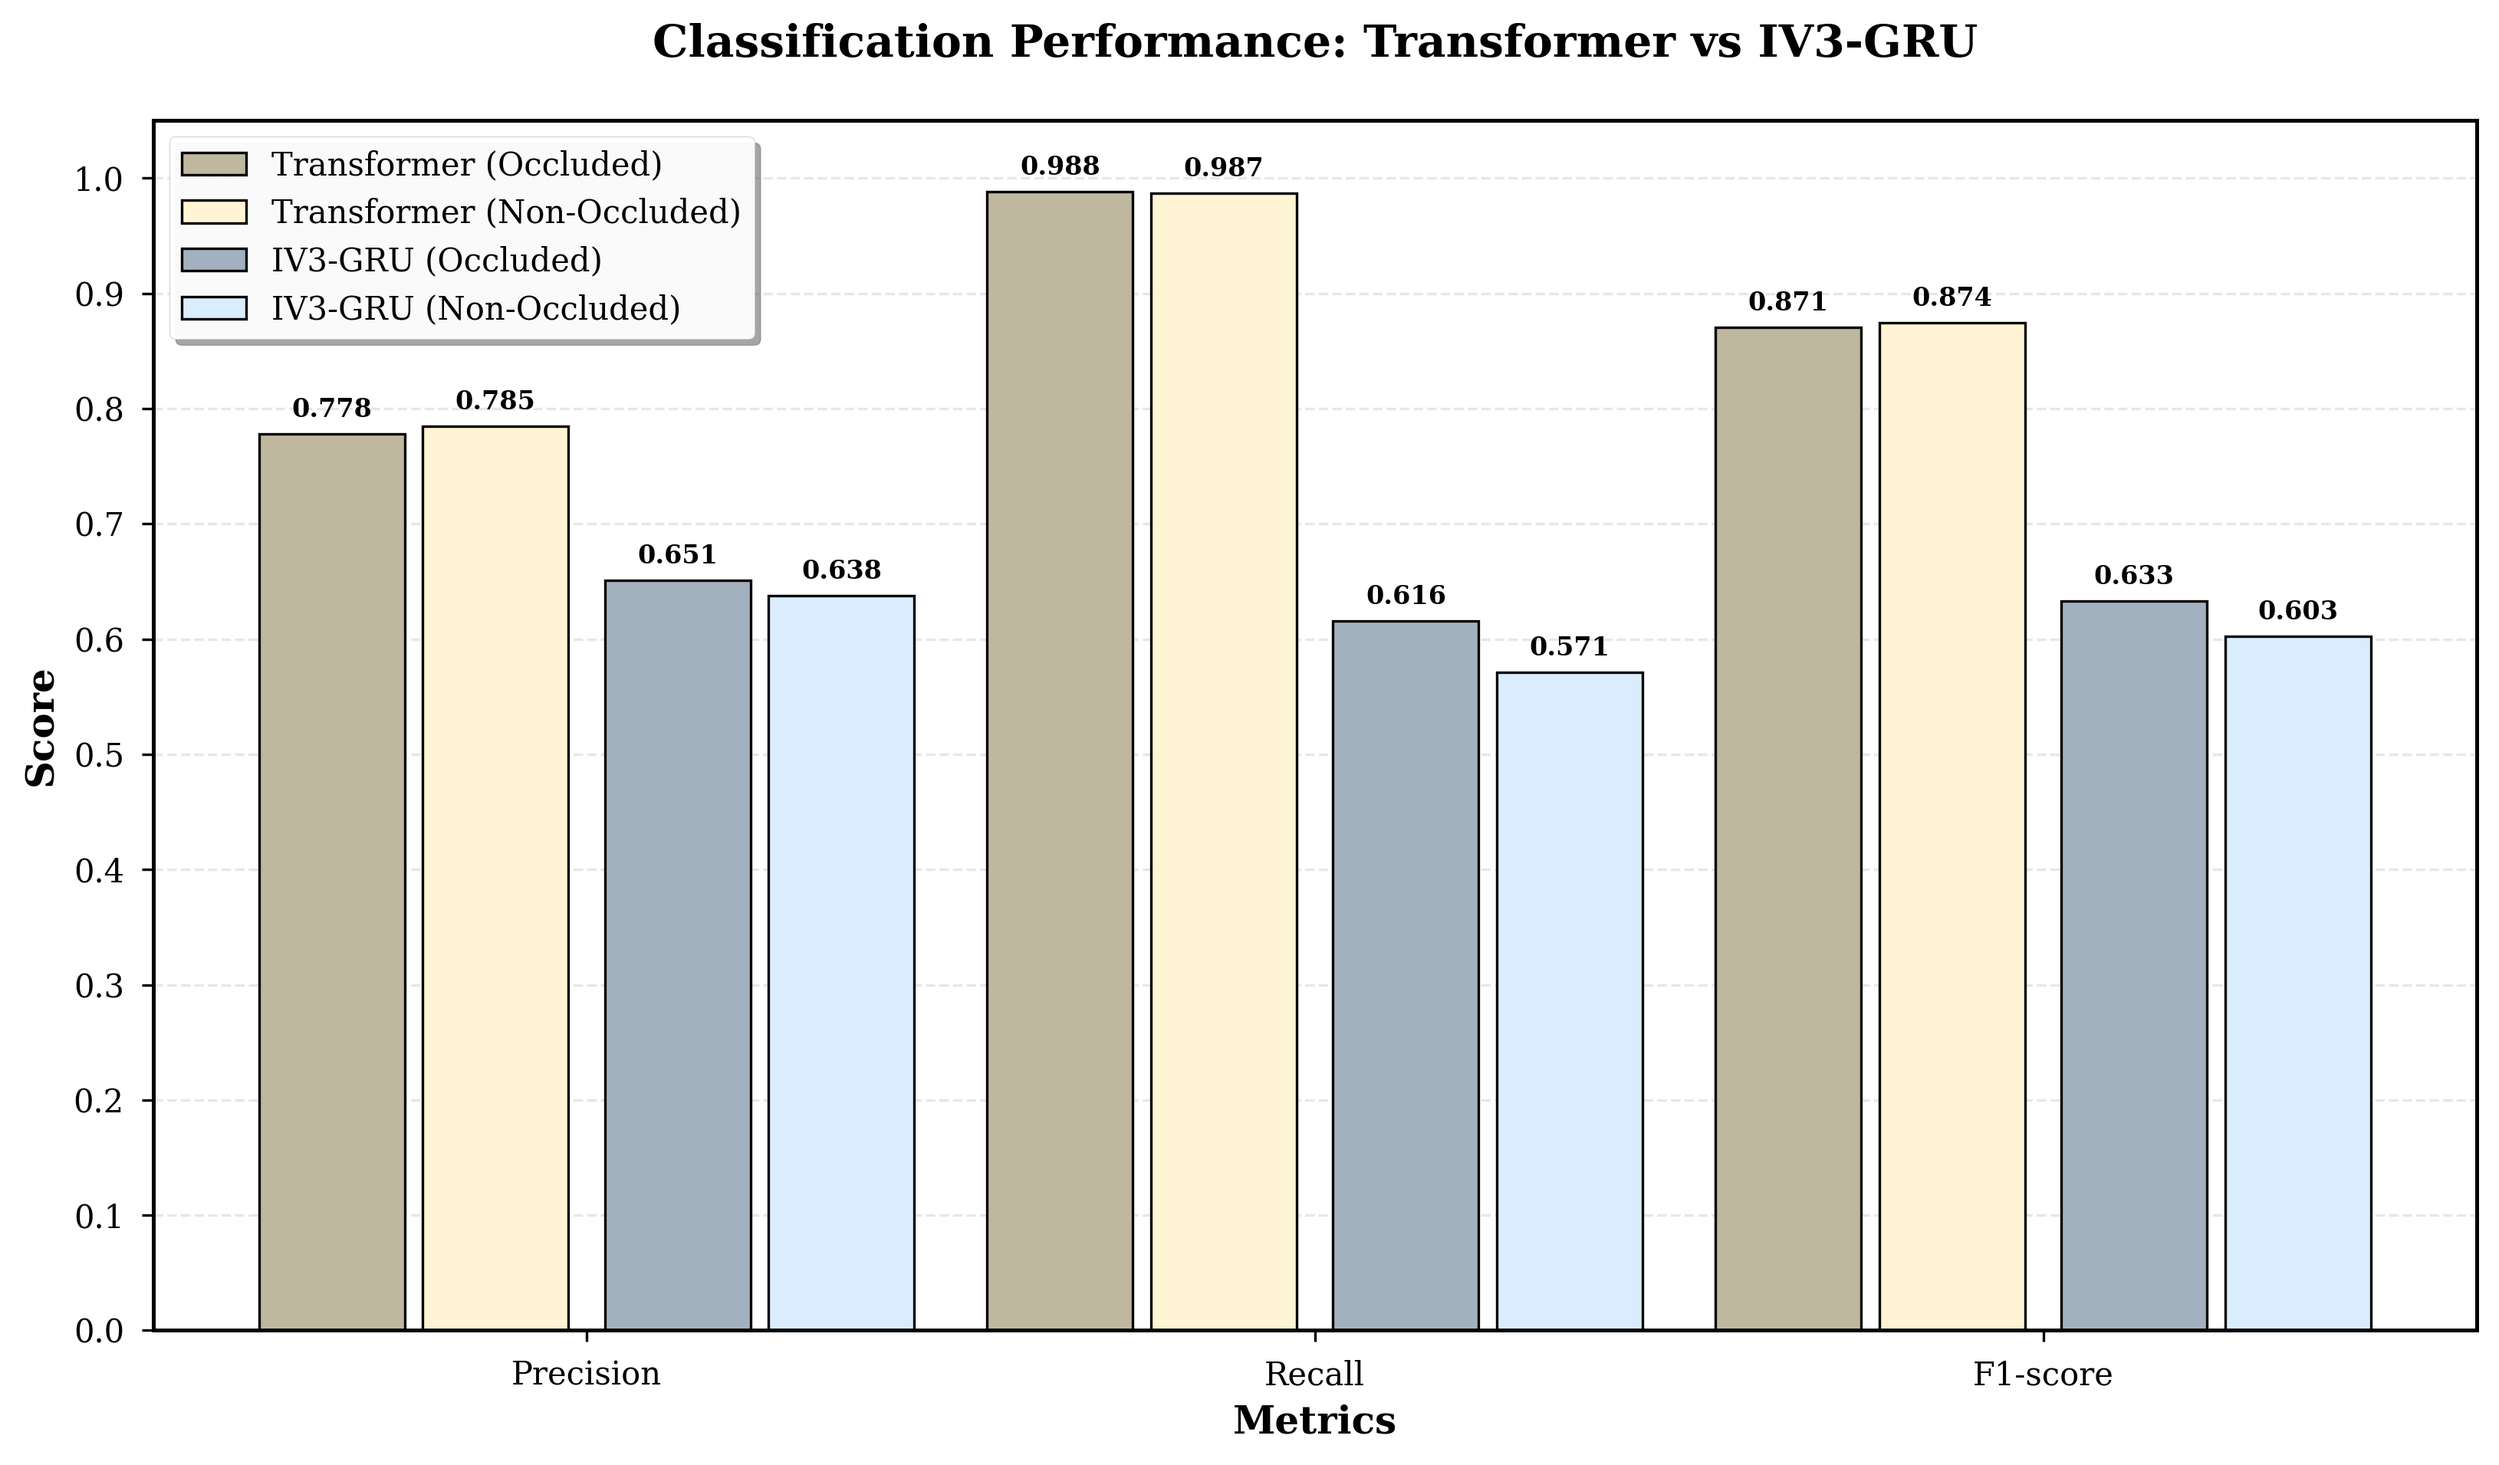
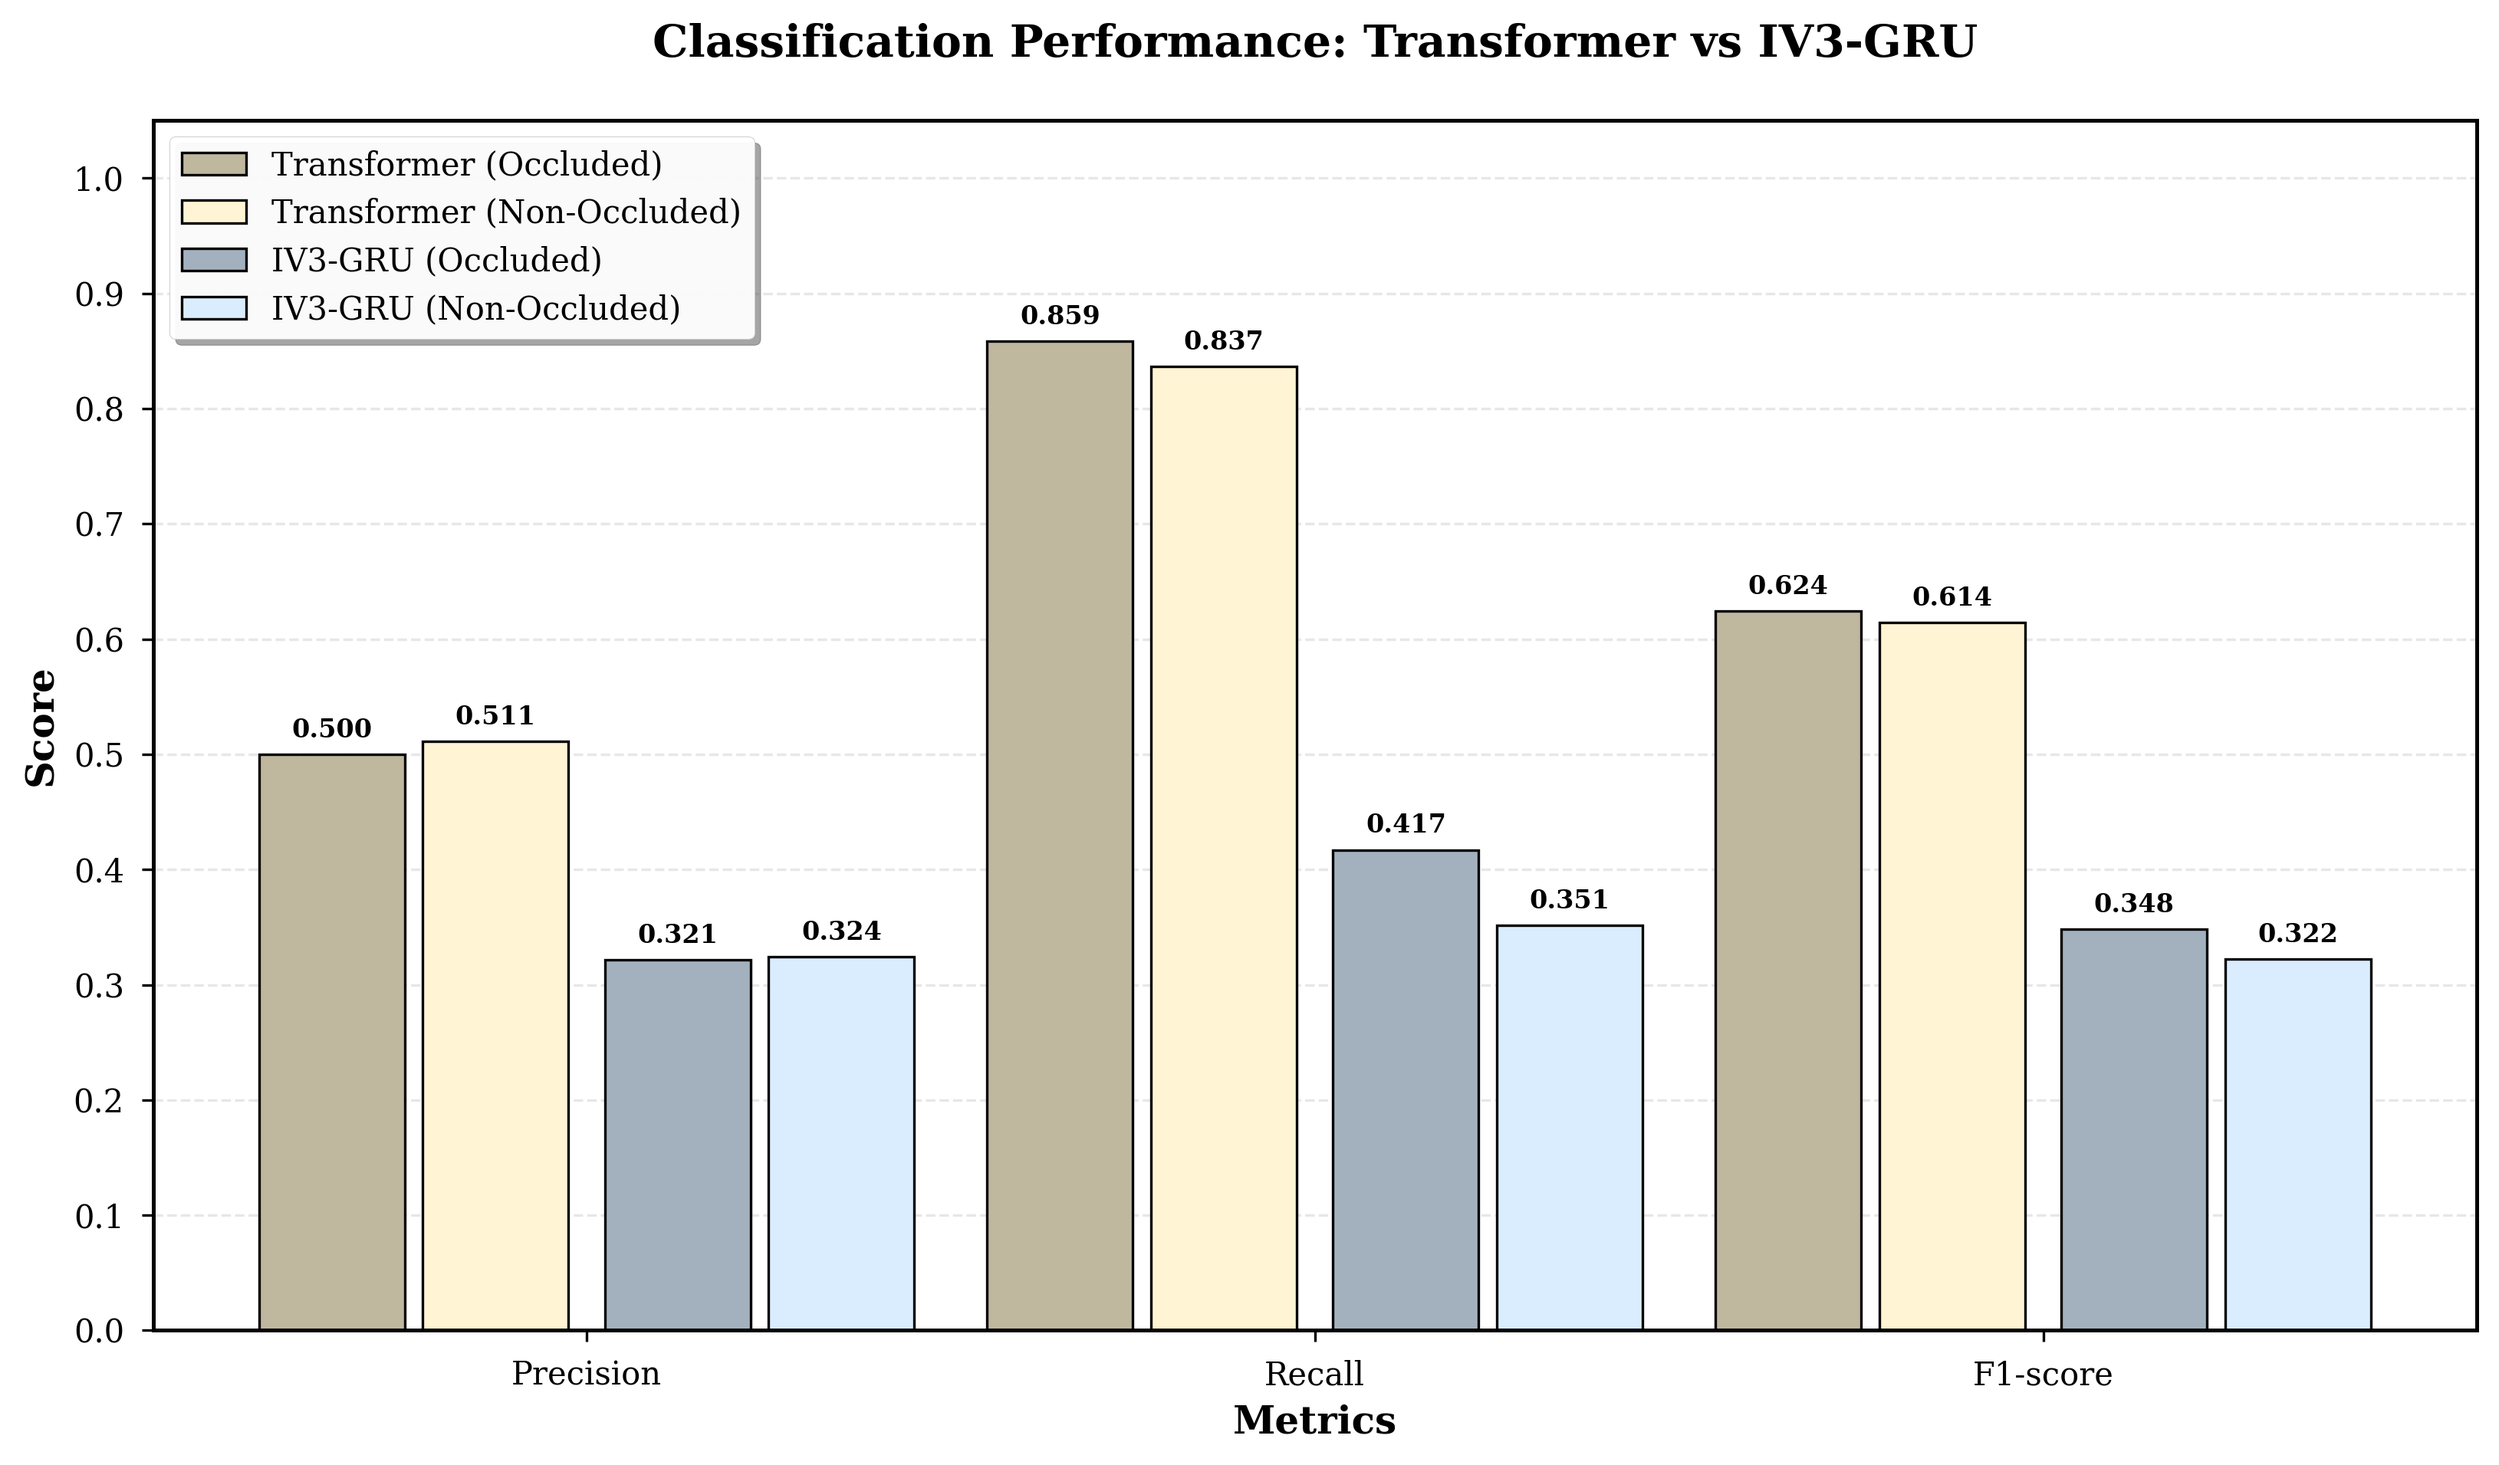
Refactor occlusion metrics processing and update visualization scripts
- Removed outdated CSV files for recognition and classification occlusion breakdowns.
- Introduced new data transformation function in `create_occlusion_charts.py` to handle updated CSV formats for metrics extraction.
- Updated input paths for recognition and classification metrics to align with the new directory structure.
- Added new CSV files for recognition and classification metrics, including breakdowns and mean values.
- Enhanced visualization scripts to generate updated statistical analysis visuals for recognition and classification tasks.

diff --git a/metrics/occ breakdown/create_occlusion_charts.py b/metrics/occ breakdown/create_occlusion_charts.py
@@ -10,6 +10,10 @@ Requirements:
     - pandas
     - numpy
     
+Input:
+    - metrics\stat test\recognition\Recognition-Mean.csv
+    - metrics\stat test\classification\Classification-Mean.csv
+    
 Output:
     Generates two PNG charts in the same directory:
     - recognition_occlusion_comparison.png
@@ -144,11 +148,67 @@ def create_comparison_chart(df, title, filename):
     print(f"Saved: {output_path}")
     sys.stdout.flush()
 
+def transform_data(df):
+    """
+    Transform data from new CSV format (Metric, Occlusion, Transformer, IV3-GRU)
+    to format expected by chart function (Model, Occlusion, Precision, Recall, F1-score).
+    
+    Parameters:
+    df: DataFrame with columns Metric, Occlusion, Transformer, IV3-GRU
+    
+    Returns:
+    DataFrame with columns Model, Occlusion, Precision, Recall, F1-score
+    """
+    # Normalize occlusion values to match expected format
+    df = df.copy()
+    df['Occlusion'] = df['Occlusion'].str.replace('nonoccluded', 'Non-Occluded', regex=False)
+    df['Occlusion'] = df['Occlusion'].str.replace('occluded', 'Occluded', regex=False)
+    
+    # Normalize metric names
+    df['Metric'] = df['Metric'].str.replace('F1-Score', 'F1-score', regex=False)
+    
+    # Build result DataFrame by extracting values for each model and occlusion combination
+    result_rows = []
+    
+    for occlusion in ['Non-Occluded', 'Occluded']:
+        occlusion_data = df[df['Occlusion'] == occlusion]
+        
+        # Extract values for Transformer
+        transformer_precision = occlusion_data[occlusion_data['Metric'] == 'Precision']['Transformer'].values[0]
+        transformer_recall = occlusion_data[occlusion_data['Metric'] == 'Recall']['Transformer'].values[0]
+        transformer_f1 = occlusion_data[occlusion_data['Metric'] == 'F1-score']['Transformer'].values[0]
+        
+        result_rows.append({
+            'Model': 'Transformer',
+            'Occlusion': occlusion,
+            'Precision': transformer_precision,
+            'Recall': transformer_recall,
+            'F1-score': transformer_f1
+        })
+        
+        # Extract values for IV3-GRU
+        iv3_precision = occlusion_data[occlusion_data['Metric'] == 'Precision']['IV3-GRU'].values[0]
+        iv3_recall = occlusion_data[occlusion_data['Metric'] == 'Recall']['IV3-GRU'].values[0]
+        iv3_f1 = occlusion_data[occlusion_data['Metric'] == 'F1-score']['IV3-GRU'].values[0]
+        
+        result_rows.append({
+            'Model': 'IV3-GRU',
+            'Occlusion': occlusion,
+            'Precision': iv3_precision,
+            'Recall': iv3_recall,
+            'F1-score': iv3_f1
+        })
+    
+    return pd.DataFrame(result_rows)
+
 def main():
     try:
-        # Read CSV files
-        recognition_file = os.path.join(output_dir, 'Compiled Data Summary - TABLE B2 — Recognition Occlusion Breakdown.csv')
-        classification_file = os.path.join(output_dir, 'Compiled Data Summary - TABLE B4 — Classification Occlusion Breakdown.csv')
+        # Get project root (parent of metrics directory)
+        project_root = Path(__file__).parent.parent.parent
+        
+        # Read CSV files from new location
+        recognition_file = project_root / 'metrics' / 'stat test' / 'recognition' / 'Recognition-Mean.csv'
+        classification_file = project_root / 'metrics' / 'stat test' / 'classification' / 'Classification-Mean.csv'
         
         print(f"Reading recognition file: {recognition_file}")
         sys.stdout.flush()
@@ -156,12 +216,12 @@ def main():
         sys.stdout.flush()
         
         # Load data
-        df_recognition = pd.read_csv(recognition_file)
-        df_classification = pd.read_csv(classification_file)
+        df_recognition_raw = pd.read_csv(recognition_file)
+        df_classification_raw = pd.read_csv(classification_file)
         
-        # Forward-fill empty Model values (for continuation rows)
-        df_recognition['Model'] = df_recognition['Model'].ffill()
-        df_classification['Model'] = df_classification['Model'].ffill()
+        # Transform data to expected format
+        df_recognition = transform_data(df_recognition_raw)
+        df_classification = transform_data(df_classification_raw)
         
         print(f"Recognition data shape: {df_recognition.shape}")
         sys.stdout.flush()

diff --git a/metrics/stat test/statistical_analysis.py b/metrics/stat test/statistical_analysis.py
@@ -5,7 +5,7 @@ This script performs comprehensive statistical testing comparing Transformer and
 models for Filipino Sign Language recognition and classification tasks.
 
 USAGE:
-    python statistical_analysis.py
+    python "metrics\stat test\statistical_analysis.py"
 
 REQUIREMENTS:
     - Python 3.7+
